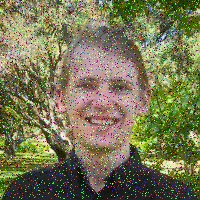
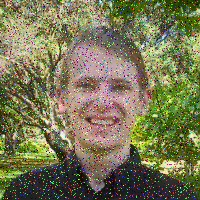
Question 2 complete

diff --git a/assignment1/q2/qst2.py b/assignment1/q2/qst2.py
@@ -2,6 +2,27 @@ import cv2
 import numpy as np
 import sys
 
+def median_filter(image, w):
+    # Ensure w is odd
+    if w % 2 == 0:
+        w += 1
+    
+    # Pad the image
+    pad = w // 2
+    padded_image = np.pad(image, ((pad, pad), (pad, pad), (0, 0)), mode='reflect')
+    
+    # Create output image
+    output = np.zeros_like(image)
+    
+    # Apply median filter to each channel
+    for c in range(image.shape[2]):  # Iterate over channels
+        for i in range(image.shape[0]):
+            for j in range(image.shape[1]):
+                neighborhood = padded_image[i:i+w, j:j+w, c]
+                output[i, j, c] = np.median(neighborhood)
+    
+    return output
+
 def add_salt_and_pepper(image, density):
     noisy = np.copy(image)
     num_salt = np.ceil(density * image.size * 0.5).astype(int)
@@ -24,6 +45,14 @@ def process_image(image_path, density):
     # Process color
     noisy_color = cv2.merge([add_salt_and_pepper(channel, density) for channel in cv2.split(img)])
     cv2.imwrite('output_color.jpg', noisy_color)
+    
+    # Apply median filter
+    filtered_img = median_filter(noisy_color, 3)
+    
+    # Save the result
+    cv2.imwrite('median_filtered.jpg', filtered_img)
+
+    
 
 def main():
     if len(sys.argv) != 3:
